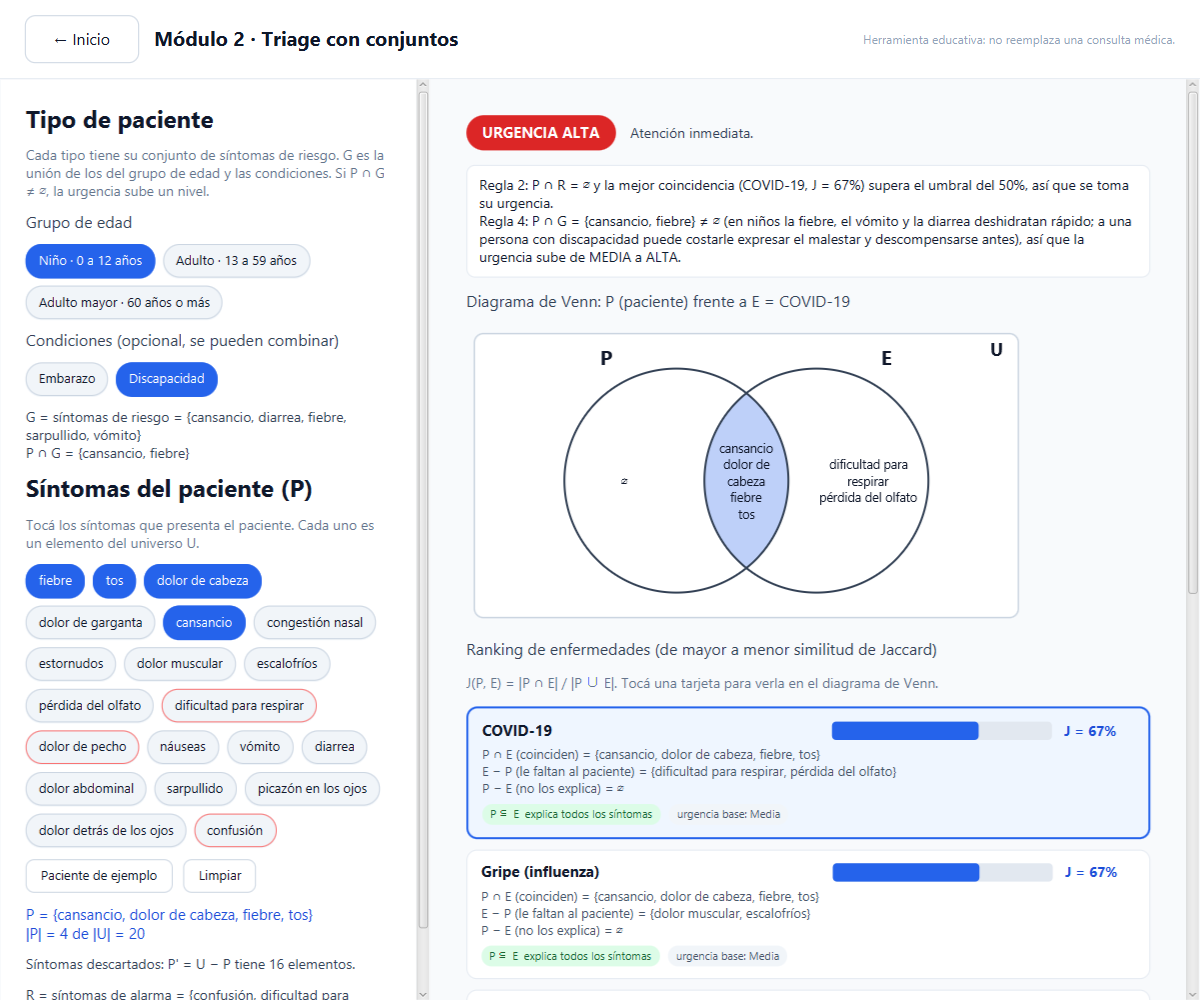
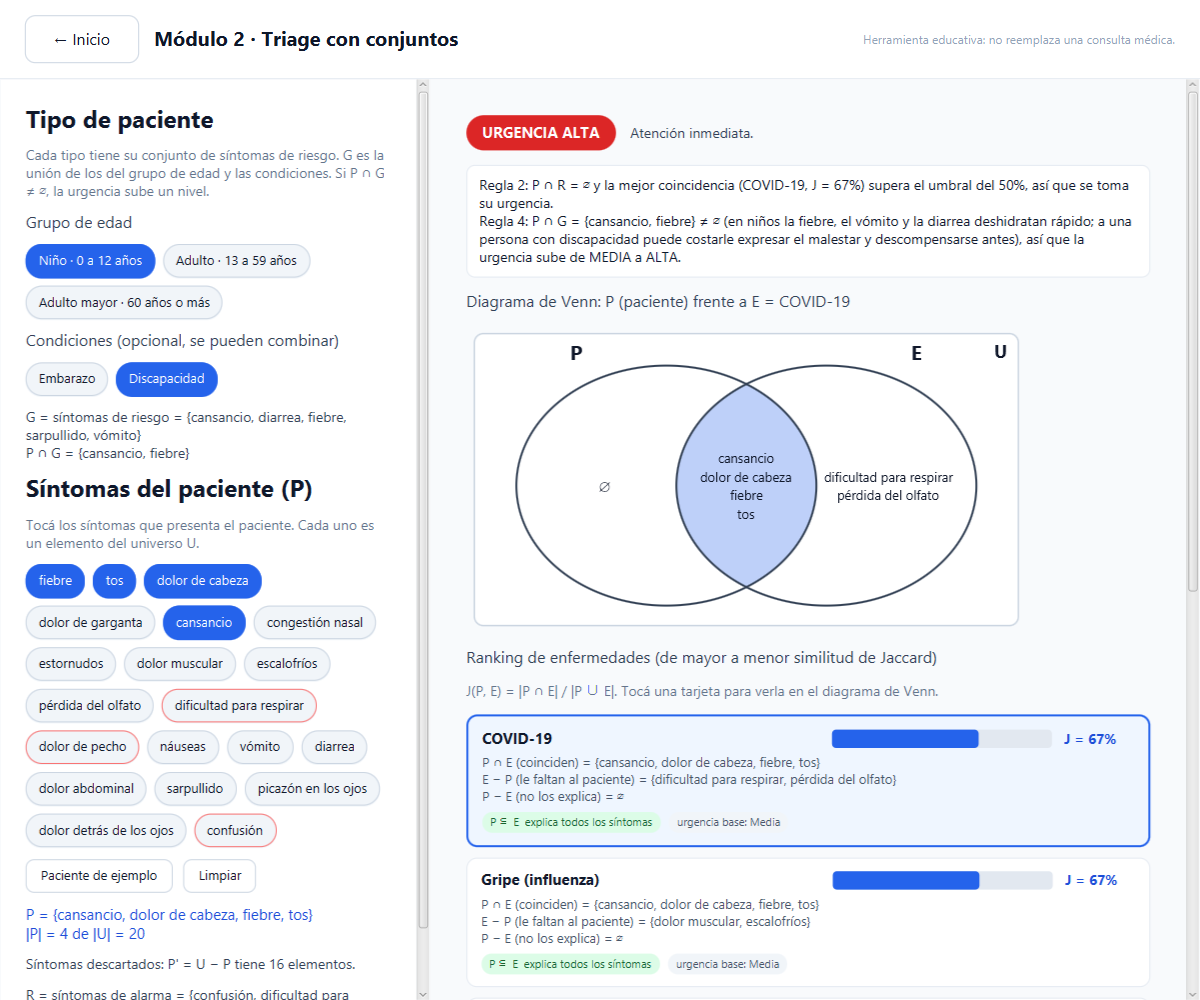
Diagrama de Venn que crece con los elementos y no se sale de sus zonas
- Los conjuntos son óvalos que se estiran hacia abajo (hasta 1,8 veces)
  cuando hay muchos elementos; más anchos para que cada nombre entre en
  una línea.
- Cada zona tiene un rectángulo que entra completo en ella; si el óvalo ya
  no puede crecer, se achica la letra y al final se muestra «(+n más)».
- Letra Segoe UI como el resto de la app, interlineado y ∅ más grande.
- Captura del triage actualizada.

diff --git a/src/main/java/com/medset/ui/VennDiagrama.java b/src/main/java/com/medset/ui/VennDiagrama.java
@@ -5,7 +5,7 @@ import com.medset.logica.OperacionesConjuntos;
 import javafx.geometry.VPos;
 import javafx.scene.layout.Pane;
 import javafx.scene.paint.Color;
-import javafx.scene.shape.Circle;
+import javafx.scene.shape.Ellipse;
 import javafx.scene.shape.Rectangle;
 import javafx.scene.shape.Shape;
 import javafx.scene.text.Font;
@@ -17,21 +17,42 @@ import java.util.ArrayList;
 import java.util.List;
 import java.util.Set;
 
+/**
+ * Diagrama de Venn dibujado con figuras JavaFX. Los conjuntos son óvalos que se
+ * estiran hacia abajo cuando tienen muchos elementos, para que el texto siempre
+ * quede dentro de su zona.
+ */
 public class VennDiagrama extends Pane {
 
     /** Zonas de un diagrama de dos conjuntos que se pueden resaltar. */
     public enum Zona { SOLO_A, AMBOS, SOLO_B }
 
     private static final double ANCHO = 560;
-    private static final double ALTO = 300;
     private static final double MARGEN = 8;
-    private static final double RADIO = 112;
-    private static final double CX_A = 210;
-    private static final double CX_B = 350;
+    private static final double ESPACIO_ARRIBA = 40;
+    private static final double ESPACIO_ABAJO = 28;
+    private static final double RADIO_X = 150;
+    private static final double RADIO_X_COMPLEMENTO = 120;
+    private static final double RADIO_Y = 120;
+    private static final double CX_A = 200;
+    private static final double CX_B = 360;
     private static final double CX_CENTRO = ANCHO / 2;
-    private static final double CY = 155;
-    private static final double Y_NOMBRE = CY - RADIO - 4;
-    private static final int MAX_POR_ZONA = 6;
+    /** Cuánto puede estirarse el óvalo como máximo (1,8 veces su alto). */
+    private static final double ESTIRAMIENTO_MAXIMO = 1.8;
+
+    // Rectángulos que entran completos dentro de cada zona cuando el óvalo no está estirado.
+    // Al estirar el óvalo, el alto de cada rectángulo crece en la misma proporción.
+    private static final Caja SOLO = new Caja(132, 120);
+    private static final Caja AMBOS = new Caja(96, 120);
+    private static final Caja DENTRO = new Caja(170, 160);
+    private static final Caja FUERA = new Caja(136, 220);
+
+    private static final String FUENTE = "Segoe UI";
+    private static final double TAMANO_LETRA = 13;
+    /** El símbolo ∅ se dibuja más grande para que se lea bien solo en su zona. */
+    private static final double TAMANO_VACIO = 22;
+    /** Tamaños más chicos que se prueban si el óvalo ya no puede crecer. */
+    private static final double[] TAMANOS_DE_RESPALDO = {12, 11, 10};
 
     private static final Color RESALTADO = Color.web("#2563EB", 0.30);
     private static final Color RESALTADO_ROJO = Color.web("#DC2626", 0.28);
@@ -39,11 +60,14 @@ public class VennDiagrama extends Pane {
     private static final Color BORDE_UNIVERSO = Color.web("#CBD5E1");
     private static final Color TEXTO = Color.web("#0F172A");
 
+    private record Caja(double ancho, double alto) {
+    }
+
+    private double radioY = RADIO_Y;
+
     public VennDiagrama() {
-        setPrefSize(ANCHO, ALTO);
-        setMinSize(ANCHO, ALTO);
-        setMaxSize(ANCHO, ALTO);
         getStyleClass().add("venn");
+        ajustarTamano(1);
     }
 
     /**
@@ -53,56 +77,100 @@ public class VennDiagrama extends Pane {
      */
     public void dibujar(Set<String> a, Set<String> b, String nombreA, String nombreB,
                         Set<Zona> resaltar, boolean alerta) {
+        Set<String> soloA = OperacionesConjuntos.calcularDiferencia(a, b);
+        Set<String> ambos = OperacionesConjuntos.calcularInterseccion(a, b);
+        Set<String> soloB = OperacionesConjuntos.calcularDiferencia(b, a);
+
         limpiar();
+        ajustarTamano(estiramiento(soloA, SOLO, ambos, AMBOS, soloB, SOLO));
         getChildren().add(universo());
 
-        Circle circuloA = new Circle(CX_A, CY, RADIO);
-        Circle circuloB = new Circle(CX_B, CY, RADIO);
+        Ellipse conjuntoA = ovalo(CX_A, RADIO_X);
+        Ellipse conjuntoB = ovalo(CX_B, RADIO_X);
         Color color = alerta ? RESALTADO_ROJO : RESALTADO;
         if (resaltar.contains(Zona.SOLO_A)) {
-            pintar(Shape.subtract(circuloA, circuloB), color);
+            pintar(Shape.subtract(conjuntoA, conjuntoB), color);
         }
         if (resaltar.contains(Zona.AMBOS)) {
-            pintar(Shape.intersect(circuloA, circuloB), color);
+            pintar(Shape.intersect(conjuntoA, conjuntoB), color);
         }
         if (resaltar.contains(Zona.SOLO_B)) {
-            pintar(Shape.subtract(circuloB, circuloA), color);
+            pintar(Shape.subtract(conjuntoB, conjuntoA), color);
         }
-        contorno(circuloA);
-        contorno(circuloB);
+        contorno(conjuntoA);
+        contorno(conjuntoB);
 
-        etiqueta(nombreA, CX_A - 70, Y_NOMBRE, 20);
-        etiqueta(nombreB, CX_B + 70, Y_NOMBRE, 20);
-        etiqueta("U", ANCHO - 30, 30, 18);
+        etiqueta(nombreA, CX_A - 90, ESPACIO_ARRIBA - 6, 20);
+        etiqueta(nombreB, CX_B + 90, ESPACIO_ARRIBA - 6, 20);
+        etiqueta("U", ANCHO - 26, 32, 18);
 
-        elementos(OperacionesConjuntos.calcularDiferencia(a, b), CX_A - 52, 104);
-        elementos(OperacionesConjuntos.calcularInterseccion(a, b), (CX_A + CX_B) / 2, 84);
-        elementos(OperacionesConjuntos.calcularDiferencia(b, a), CX_B + 52, 104);
+        elementos(soloA, CX_A - 62, SOLO);
+        elementos(ambos, (CX_A + CX_B) / 2, AMBOS);
+        elementos(soloB, CX_B + 62, SOLO);
     }
 
     /** Dibuja un conjunto A dentro del universo U con su complemento A' resaltado. */
     public void dibujarComplemento(Set<String> a, Set<String> universo, String nombreA) {
+        Set<String> fuera = OperacionesConjuntos.calcularDiferencia(universo, a);
+
         limpiar();
+        ajustarTamano(estiramiento(a, DENTRO, fuera, FUERA));
         getChildren().add(universo());
 
-        Circle circulo = new Circle(CX_CENTRO, CY, RADIO);
-        pintar(Shape.subtract(universo(), circulo), RESALTADO);
-        contorno(circulo);
+        Ellipse conjunto = ovalo(CX_CENTRO, RADIO_X_COMPLEMENTO);
+        pintar(Shape.subtract(universo(), conjunto), RESALTADO);
+        contorno(conjunto);
 
-        etiqueta(nombreA, CX_CENTRO, Y_NOMBRE, 20);
-        etiqueta("U", ANCHO - 30, 30, 18);
+        etiqueta(nombreA, CX_CENTRO, ESPACIO_ARRIBA - 6, 20);
+        etiqueta("U", ANCHO - 26, 32, 18);
 
-        elementos(a, CX_CENTRO, 190);
-        // Los elementos de U − A se escriben a la izquierda, fuera del círculo.
-        elementos(OperacionesConjuntos.calcularDiferencia(universo, a), 92, 140);
+        elementos(a, CX_CENTRO, DENTRO);
+        // Los elementos de U − A se escriben a la izquierda, fuera del óvalo.
+        elementos(fuera, MARGEN + 76, FUERA);
     }
 
     public void limpiar() {
         getChildren().clear();
     }
 
+    /**
+     * Cuánto hay que estirar los óvalos para que cada conjunto entre en su zona
+     * con la letra normal. Recibe pares (conjunto, caja de su zona).
+     */
+    private static double estiramiento(Object... conjuntosYCajas) {
+        double necesario = 1;
+        for (int i = 0; i < conjuntosYCajas.length; i += 2) {
+            @SuppressWarnings("unchecked")
+            Set<String> conjunto = (Set<String>) conjuntosYCajas[i];
+            Caja caja = (Caja) conjuntosYCajas[i + 1];
+            double alto = texto(lineas(conjunto), TAMANO_LETRA, caja.ancho()).getLayoutBounds().getHeight();
+            necesario = Math.max(necesario, alto / caja.alto());
+        }
+        return Math.min(necesario, ESTIRAMIENTO_MAXIMO);
+    }
+
+    private void ajustarTamano(double estiramiento) {
+        radioY = RADIO_Y * estiramiento;
+        double alto = ESPACIO_ARRIBA + 2 * radioY + ESPACIO_ABAJO;
+        setPrefSize(ANCHO, alto);
+        setMinSize(ANCHO, alto);
+        setMaxSize(ANCHO, alto);
+    }
+
+    private double centroY() {
+        return ESPACIO_ARRIBA + radioY;
+    }
+
+    private double estiramientoActual() {
+        return radioY / RADIO_Y;
+    }
+
+    private Ellipse ovalo(double cx, double radioX) {
+        return new Ellipse(cx, centroY(), radioX, radioY);
+    }
+
     private Rectangle universo() {
-        Rectangle u = new Rectangle(MARGEN, MARGEN, ANCHO - 2 * MARGEN, ALTO - 2 * MARGEN);
+        Rectangle u = new Rectangle(MARGEN, MARGEN, ANCHO - 2 * MARGEN, getPrefHeight() - 2 * MARGEN);
         u.setArcWidth(18);
         u.setArcHeight(18);
         u.setFill(Color.WHITE);
@@ -117,8 +185,8 @@ public class VennDiagrama extends Pane {
         getChildren().add(forma);
     }
 
-    private void contorno(Circle c) {
-        Circle borde = new Circle(c.getCenterX(), c.getCenterY(), c.getRadius());
+    private void contorno(Ellipse e) {
+        Ellipse borde = new Ellipse(e.getCenterX(), e.getCenterY(), e.getRadiusX(), e.getRadiusY());
         borde.setFill(Color.TRANSPARENT);
         borde.setStroke(BORDE);
         borde.setStrokeWidth(2);
@@ -127,34 +195,68 @@ public class VennDiagrama extends Pane {
 
     private void etiqueta(String texto, double x, double y, int tamano) {
         Text t = new Text(texto);
-        t.setFont(Font.font("System", FontWeight.BOLD, tamano));
+        t.setFont(Font.font(FUENTE, FontWeight.BOLD, tamano));
         t.setFill(TEXTO);
         t.setX(x - t.getLayoutBounds().getWidth() / 2);
         t.setY(y);
         getChildren().add(t);
     }
 
-    private void elementos(Set<String> conjunto, double cx, double ancho) {
-        Text t = new Text(conjunto.isEmpty() ? "∅" : String.join("\n", recortar(conjunto)));
-        t.setFont(Font.font("System", FontWeight.SEMI_BOLD, 12.5));
-        t.setFill(TEXTO);
-        t.setTextAlignment(TextAlignment.CENTER);
-        t.setTextOrigin(VPos.TOP);
-        t.setWrappingWidth(ancho);
-        t.setX(cx - ancho / 2);
-        t.setY(CY - t.getLayoutBounds().getHeight() / 2);
+    /**
+     * Escribe los elementos centrados en la zona sin salirse de su caja. Si el
+     * óvalo ya llegó a su tamaño máximo y aun así no entran, primero achica la
+     * letra y después muestra los primeros elementos y "(+n más)".
+     */
+    private void elementos(Set<String> conjunto, double cx, Caja caja) {
+        double alto = caja.alto() * estiramientoActual();
+        List<String> lineas = lineas(conjunto);
+        Text t = texto(lineas, conjunto.isEmpty() ? TAMANO_VACIO : TAMANO_LETRA, caja.ancho());
+        if (!cabe(t, caja.ancho(), alto)) {
+            t = textoQueCabe(lineas, caja.ancho(), alto);
+        }
+        t.setX(cx - caja.ancho() / 2);
+        t.setY(centroY() - t.getLayoutBounds().getHeight() / 2);
         getChildren().add(t);
     }
 
-    /** Si la zona tiene demasiados elementos, muestra los primeros y "(+n más)". */
-    private List<String> recortar(Set<String> conjunto) {
-        List<String> ordenados = FormatoConjunto.ordenar(conjunto);
-        if (ordenados.size() <= MAX_POR_ZONA) {
-            return ordenados;
+    private static Text textoQueCabe(List<String> lineas, double ancho, double alto) {
+        for (double tamano : TAMANOS_DE_RESPALDO) {
+            Text t = texto(lineas, tamano, ancho);
+            if (cabe(t, ancho, alto)) {
+                return t;
+            }
         }
-        int resto = ordenados.size() - (MAX_POR_ZONA - 1);
-        List<String> visibles = new ArrayList<>(ordenados.subList(0, MAX_POR_ZONA - 1));
-        visibles.add("(+" + resto + " más)");
-        return visibles;
+        double menor = TAMANOS_DE_RESPALDO[TAMANOS_DE_RESPALDO.length - 1];
+        Text t = texto(lineas, menor, ancho);
+        for (int visibles = lineas.size() - 1; visibles >= 1 && !cabe(t, ancho, alto); visibles--) {
+            t = texto(recortar(lineas, visibles), menor, ancho);
+        }
+        return t;
+    }
+
+    private static List<String> lineas(Set<String> conjunto) {
+        return conjunto.isEmpty() ? List.of("∅") : FormatoConjunto.ordenar(conjunto);
+    }
+
+    private static Text texto(List<String> lineas, double tamano, double ancho) {
+        Text t = new Text(String.join("\n", lineas));
+        t.setFont(Font.font(FUENTE, FontWeight.SEMI_BOLD, tamano));
+        t.setFill(TEXTO);
+        t.setTextAlignment(TextAlignment.CENTER);
+        t.setTextOrigin(VPos.TOP);
+        t.setLineSpacing(1.5);
+        t.setWrappingWidth(ancho);
+        return t;
+    }
+
+    private static boolean cabe(Text t, double ancho, double alto) {
+        return t.getLayoutBounds().getWidth() <= ancho + 0.5 && t.getLayoutBounds().getHeight() <= alto;
+    }
+
+    /** Los primeros {@code visibles} elementos y una línea "(+n más)" con los que faltan. */
+    private static List<String> recortar(List<String> lineas, int visibles) {
+        List<String> recortadas = new ArrayList<>(lineas.subList(0, visibles));
+        recortadas.add("(+" + (lineas.size() - visibles) + " más)");
+        return recortadas;
     }
 }
